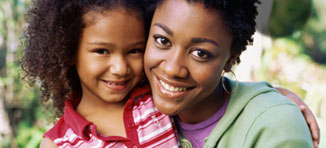
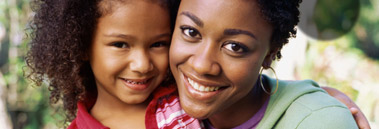
GS-7478 Swap in new images

diff --git a/src/webapp/res/css/community/registration/loginOrRegister.css b/src/webapp/res/css/community/registration/loginOrRegister.css
@@ -58,7 +58,7 @@
 #joinImage {
     position: absolute;
     top: 47px;
-    right: 66px;
+    right: 17px;
 }
 
 #newuserImage {
